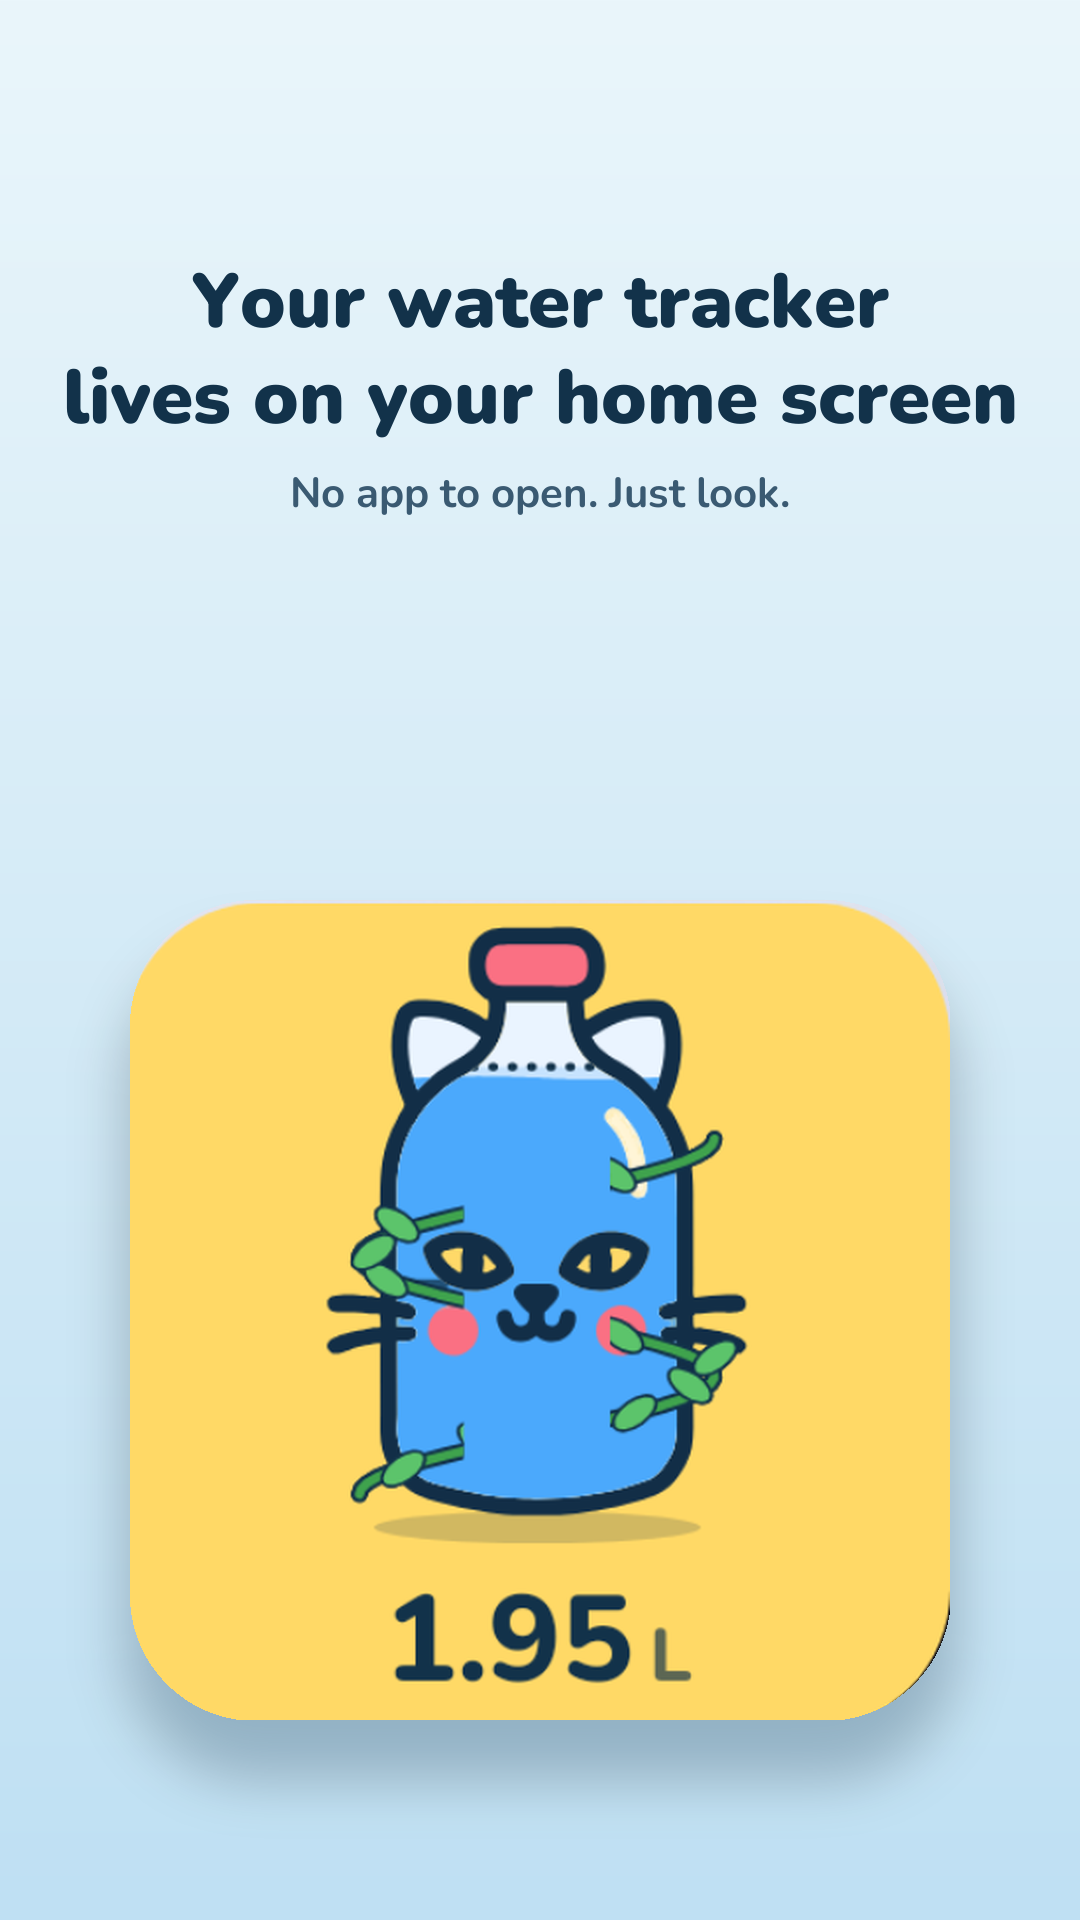
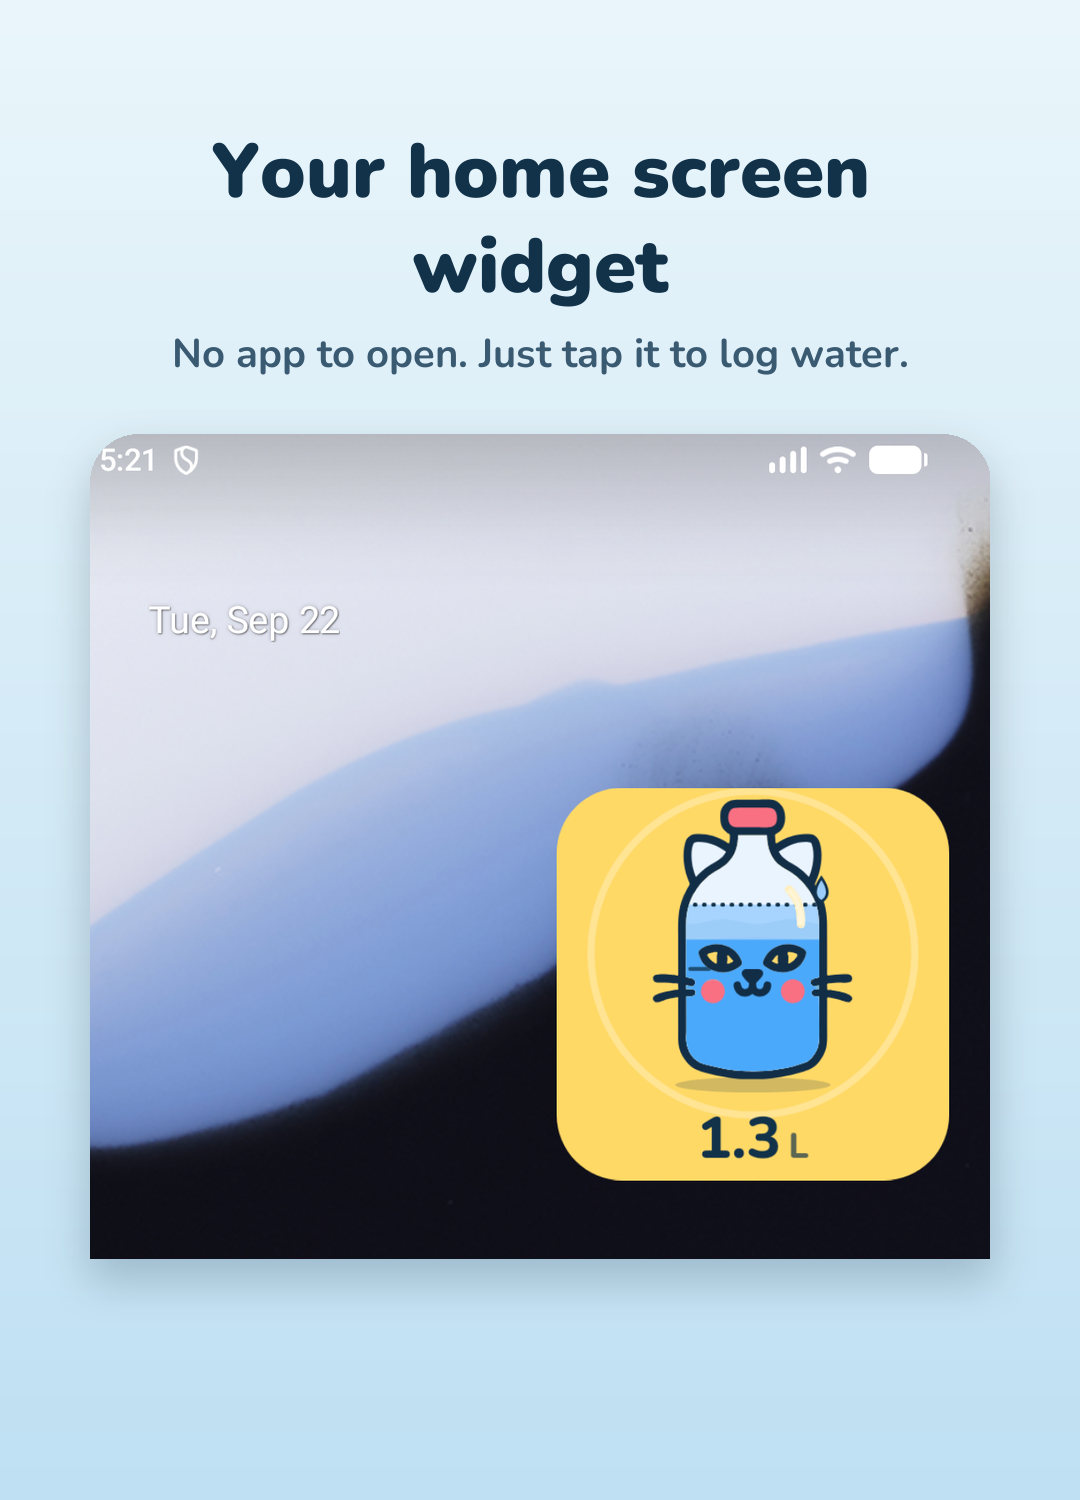
Redesign store screenshots to show the widget in real phone-screen context (top portion only); rewrite screen 2/3 copy per feedback; drop goal/settings screenshots; remove remaining creeper mentions from store copy and docs

diff --git a/docs/privacy-policy.html b/docs/privacy-policy.html
@@ -3,4 +3,4 @@
 <title>Water Tracker Privacy Policy</title>
 <style>body{font-family:system-ui,-apple-system,Segoe UI,Roboto,sans-serif;max-width:720px;margin:40px auto;padding:0 20px;line-height:1.6;color:#12324A;background:#FFFBEF}
 h1{font-size:2rem}a{color:#1E88E5}li{margin:.4rem 0}</style></head>
-<body><h1>Water Tracker Privacy Policy</h1><p>Last updated: 21 September 2026</p><p>Water Tracker is a home-screen widget that helps you log the water you drink.</p><p><strong>Data we collect: none.</strong> The amount of water you log, your daily goal, your creeper level and your settings are stored only on your device. We do not collect, transmit, sell or share any personal data. The app has no accounts, no analytics, no ads and no third-party SDKs, and it does not request the internet permission, so it cannot send anything off your device.</p><p><strong>Android backup.</strong> If you have Android&#x27;s backup turned on, the app&#x27;s small settings file (goal, water log, creeper level) may be included in your own Google backup so it can be restored on a new phone. That backup belongs to your Google account and is not accessible to us.</p><p><strong>Permissions and why:</strong></p><ul><li><em>Foreground service:</em> used only so the widget can notice when you unlock your phone and remind you to drink. It shows a quiet, minimum-priority notification. Nothing about your unlocks is stored or sent anywhere.</li><li><em>Run at startup:</em> restores that listener after your phone restarts.</li><li><em>Notifications:</em> lets the app show its quiet &quot;Tap your widget to log water&quot; notification. This is optional. If you decline, the app still works, but Android hides that notification.</li></ul><p><strong>Deleting your data:</strong> uninstalling the app removes everything it stored on your device.</p><p><strong>Children:</strong> Water Tracker is not directed at children under 13 and collects no data from anyone.</p><p><strong>Health:</strong> Water Tracker is not a medical app and gives no medical advice. Talk to a healthcare professional about how much water is right for you.</p><p><strong>Contact:</strong> open an issue at <a href="https://github.com/developerjabberai/android-water-tracker/issues">https://github.com/developerjabberai/android-water-tracker/issues</a></p><p><strong>Changes:</strong> if this policy changes, the updated version will be posted at this same address.</p></body></html>
+<body><h1>Water Tracker Privacy Policy</h1><p>Last updated: 21 September 2026</p><p>Water Tracker is a home-screen widget that helps you log the water you drink.</p><p><strong>Data we collect: none.</strong> The amount of water you log, your daily goal and your settings are stored only on your device. We do not collect, transmit, sell or share any personal data. The app has no accounts, no analytics, no ads and no third-party SDKs, and it does not request the internet permission, so it cannot send anything off your device.</p><p><strong>Android backup.</strong> If you have Android&#x27;s backup turned on, the app&#x27;s small settings file (goal and water log) may be included in your own Google backup so it can be restored on a new phone. That backup belongs to your Google account and is not accessible to us.</p><p><strong>Permissions and why:</strong></p><ul><li><em>Foreground service:</em> used only so the widget can notice when you unlock your phone and remind you to drink. It shows a quiet, minimum-priority notification. Nothing about your unlocks is stored or sent anywhere.</li><li><em>Run at startup:</em> restores that listener after your phone restarts.</li><li><em>Notifications:</em> lets the app show its quiet &quot;Tap your widget to log water&quot; notification. This is optional. If you decline, the app still works, but Android hides that notification.</li></ul><p><strong>Deleting your data:</strong> uninstalling the app removes everything it stored on your device.</p><p><strong>Children:</strong> Water Tracker is not directed at children under 13 and collects no data from anyone.</p><p><strong>Health:</strong> Water Tracker is not a medical app and gives no medical advice. Talk to a healthcare professional about how much water is right for you.</p><p><strong>Contact:</strong> open an issue at <a href="https://github.com/developerjabberai/android-water-tracker/issues">https://github.com/developerjabberai/android-water-tracker/issues</a></p><p><strong>Changes:</strong> if this policy changes, the updated version will be posted at this same address.</p></body></html>

diff --git a/v1/store/listing.md b/v1/store/listing.md
@@ -2,34 +2,33 @@
 
 **App name / Play title (30):** Widget: Water Tracker & Remind
 **In-app and home-screen name:** Water Tracker
-**Short description (80):** Water tracker widget: log water in one tap. A little cat cheers you on.
+**Short description (80):** Water tracker widget: tap to log water. A little cat cheers you on.
 
 **Full description (4000):**
-Water Tracker is a water tracker widget for your home screen, and the widget is the whole app.
+Water Tracker is a water tracker widget for your home screen — the widget is the whole app.
 
-Tap it to log water. The bottle fills up with a splash and does a happy little bounce. Every day a different cat-bottle character keeps you company, and a creeper vine grows up the bottle every day you reach your goal.
+Tap it to log water. The bottle fills with a splash and gives a happy little bounce. A different cat-bottle character keeps you company each day.
 
 WHAT YOU GET
-- One tap logs half a glass or a whole glass, your choice
-- Four cute characters that take turns each day
-- A dotted line shows where you should be by now, so you can see at a glance if you're ahead or behind
-- Reach your goal (2 L, 3 L or 4 L) and your creeper grows a level, from wilted all the way to full bloom. Miss a day and it shrinks, so it's a streak you'll want to keep
-- A reminder that's impossible to miss: when you unlock your phone and you're falling behind, the bottle bursts apart and rebuilds, then shows exactly how much to drink
+- One tap logs half a glass or a full glass, your choice
+- Four cute characters that take turns, one each day
+- A dotted line shows where you should be by now, so you can tell at a glance if you're ahead or behind
+- A reminder that's impossible to miss when you're falling behind on water
 - A simple 7-day view in the app
-- Everything stays on your device. No account, no ads, no tracking, and the app doesn't even ask for internet access
+- Everything stays on your device. No account, no ads, no tracking — the app doesn't even ask for internet access
 
 HOW IT WORKS
-Add the widget to your home screen in one tap from the app, pick your daily goal, and choose whether a tap logs half a glass or a full one. That's it.
+Add the widget to your home screen in one tap, pick your daily goal, and choose whether a tap logs half a glass or a full one. That's it.
 
 A NOTE ON PERMISSIONS
-To notice when you unlock your phone, the widget uses a small background service. It shows one quiet, low-priority notification ("Tap your widget to log water") that you can hide. Nothing about your unlocks is stored or sent anywhere.
+Water Tracker uses a small background service so it can notice when you unlock your phone and remind you to drink. It shows one quiet notification you can hide any time. Nothing about your unlocks is stored or sent anywhere.
 
 Water Tracker is not a medical app and gives no medical advice.
 
 **Category:** Health & Fitness
 **Tags:** water tracker, hydration, widget, drink water reminder, habit tracker
 
-**What's new (1.0.0):** First release. One-tap water logging from your home screen, four daily characters, a growing creeper streak, and an unmissable unlock reminder.
+**What's new (1.0.0):** First release. One-tap water logging from your home screen, four daily characters, and a reminder you won't miss.
 
 **Localised titles** (Play Console > Store listing > Translations; all 30 characters or fewer):
 - de: Widget: Wasser Erinnerung

diff --git a/v1/store/play-console-answers.md b/v1/store/play-console-answers.md
@@ -10,7 +10,7 @@ App ID `com.developerjabberai.watertracker` · Title "Widget: Water Tracker & Re
 - Text: `v1/store/listing.md`
 - App icon: `v1/store/icon-512.png` (512×512)
 - Feature graphic: `v1/store/feature-graphic-1024x500.png`
-- Phone screenshots (upload all five, in order): `v1/store/screenshots/1-home.png` … `5-settings.png`
+- Phone screenshots (upload all three, in order): `v1/store/screenshots/1-home.png`, `2-tap.png`, `3-reminder.png`
 - Category: **Health & Fitness** · Email: your support email · Website (optional): https://developerjabberai.github.io/android-water-tracker/
 
 ## 3. App content
@@ -45,7 +45,7 @@ App ID `com.developerjabberai.watertracker` · Title "Widget: Water Tracker & Re
 No location, contacts, storage, camera, microphone or internet permissions.
 
 ## 6. Release
-1. **Internal testing** first: create a release, upload the `.aab`, add your own Google account as a tester, install the Play-signed build on your phone and check the widget, the reminder and the creeper.
+1. **Internal testing** first: create a release, upload the `.aab`, add your own Google account as a tester, install the Play-signed build on your phone and check the widget and the reminder.
 2. Then **Production**: create the release, use the "What's new" text from `listing.md`, roll out to 100%, submit for review.
 3. Keep **Play App Signing** on (default). Your `.jks` is only the upload key: keep it and its passwords safe and backed up.
 4. Bump `versionCode` in `v1/WaterTracker/app/build.gradle.kts` for every upload. Play rejects a version code it has already seen (this is why the bundle is now code 2).

diff --git a/v1/store/privacy-policy.md b/v1/store/privacy-policy.md
@@ -4,9 +4,9 @@ Last updated: 21 September 2026
 
 Water Tracker is a home-screen widget that helps you log the water you drink.
 
-**Data we collect: none.** The amount of water you log, your daily goal, your creeper level and your settings are stored only on your device. We do not collect, transmit, sell or share any personal data. The app has no accounts, no analytics, no ads and no third-party SDKs, and it does not request the internet permission, so it cannot send anything off your device.
+**Data we collect: none.** The amount of water you log, your daily goal and your settings are stored only on your device. We do not collect, transmit, sell or share any personal data. The app has no accounts, no analytics, no ads and no third-party SDKs, and it does not request the internet permission, so it cannot send anything off your device.
 
-**Android backup.** If you have Android's backup turned on, the app's small settings file (goal, water log, creeper level) may be included in your own Google backup so it can be restored on a new phone. That backup belongs to your Google account and is not accessible to us.
+**Android backup.** If you have Android's backup turned on, the app's small settings file (goal and water log) may be included in your own Google backup so it can be restored on a new phone. That backup belongs to your Google account and is not accessible to us.
 
 **Permissions and why:**
 - *Foreground service:* used only so the widget can notice when you unlock your phone and remind you to drink. It shows a quiet, minimum-priority notification. Nothing about your unlocks is stored or sent anywhere.

diff --git a/v1/SPEC.md b/v1/SPEC.md
@@ -27,7 +27,7 @@ The home-screen widget is the product. The app exists only for configuration and
 - **Daily reset:** midnight. An inexact alarm at 00:01 redraws the widget; unlock also rolls over a stale day, and yesterday's total is kept for the 7-day view.
 - **Out of scope for MVP:** undo.
 
-## Creeper (streak)
+## Creeper (streak) — currently disabled in the UI (looked congested); level-tracking still runs quietly in storage
 - A vine winds up the bottle, with **10 growth levels**: 1 Wilted, 2 Struggling, 3 Recovering, 4 Sprout, **5 Steady (start)**, 6 Climbing, 7 Lush, 8 Budding, 9 Blooming, 10 Full bloom. Colour tells the story (brown, yellow, light green, deep green, pink flowers).
 - **Grows** one level the moment the day's goal is first reached (once per day), during the goal celebration. Partial days do not count.
 - **Shrinks** one level for each missed day, including days the app was not used, never below level 1. It stays at 10 while the streak continues.
